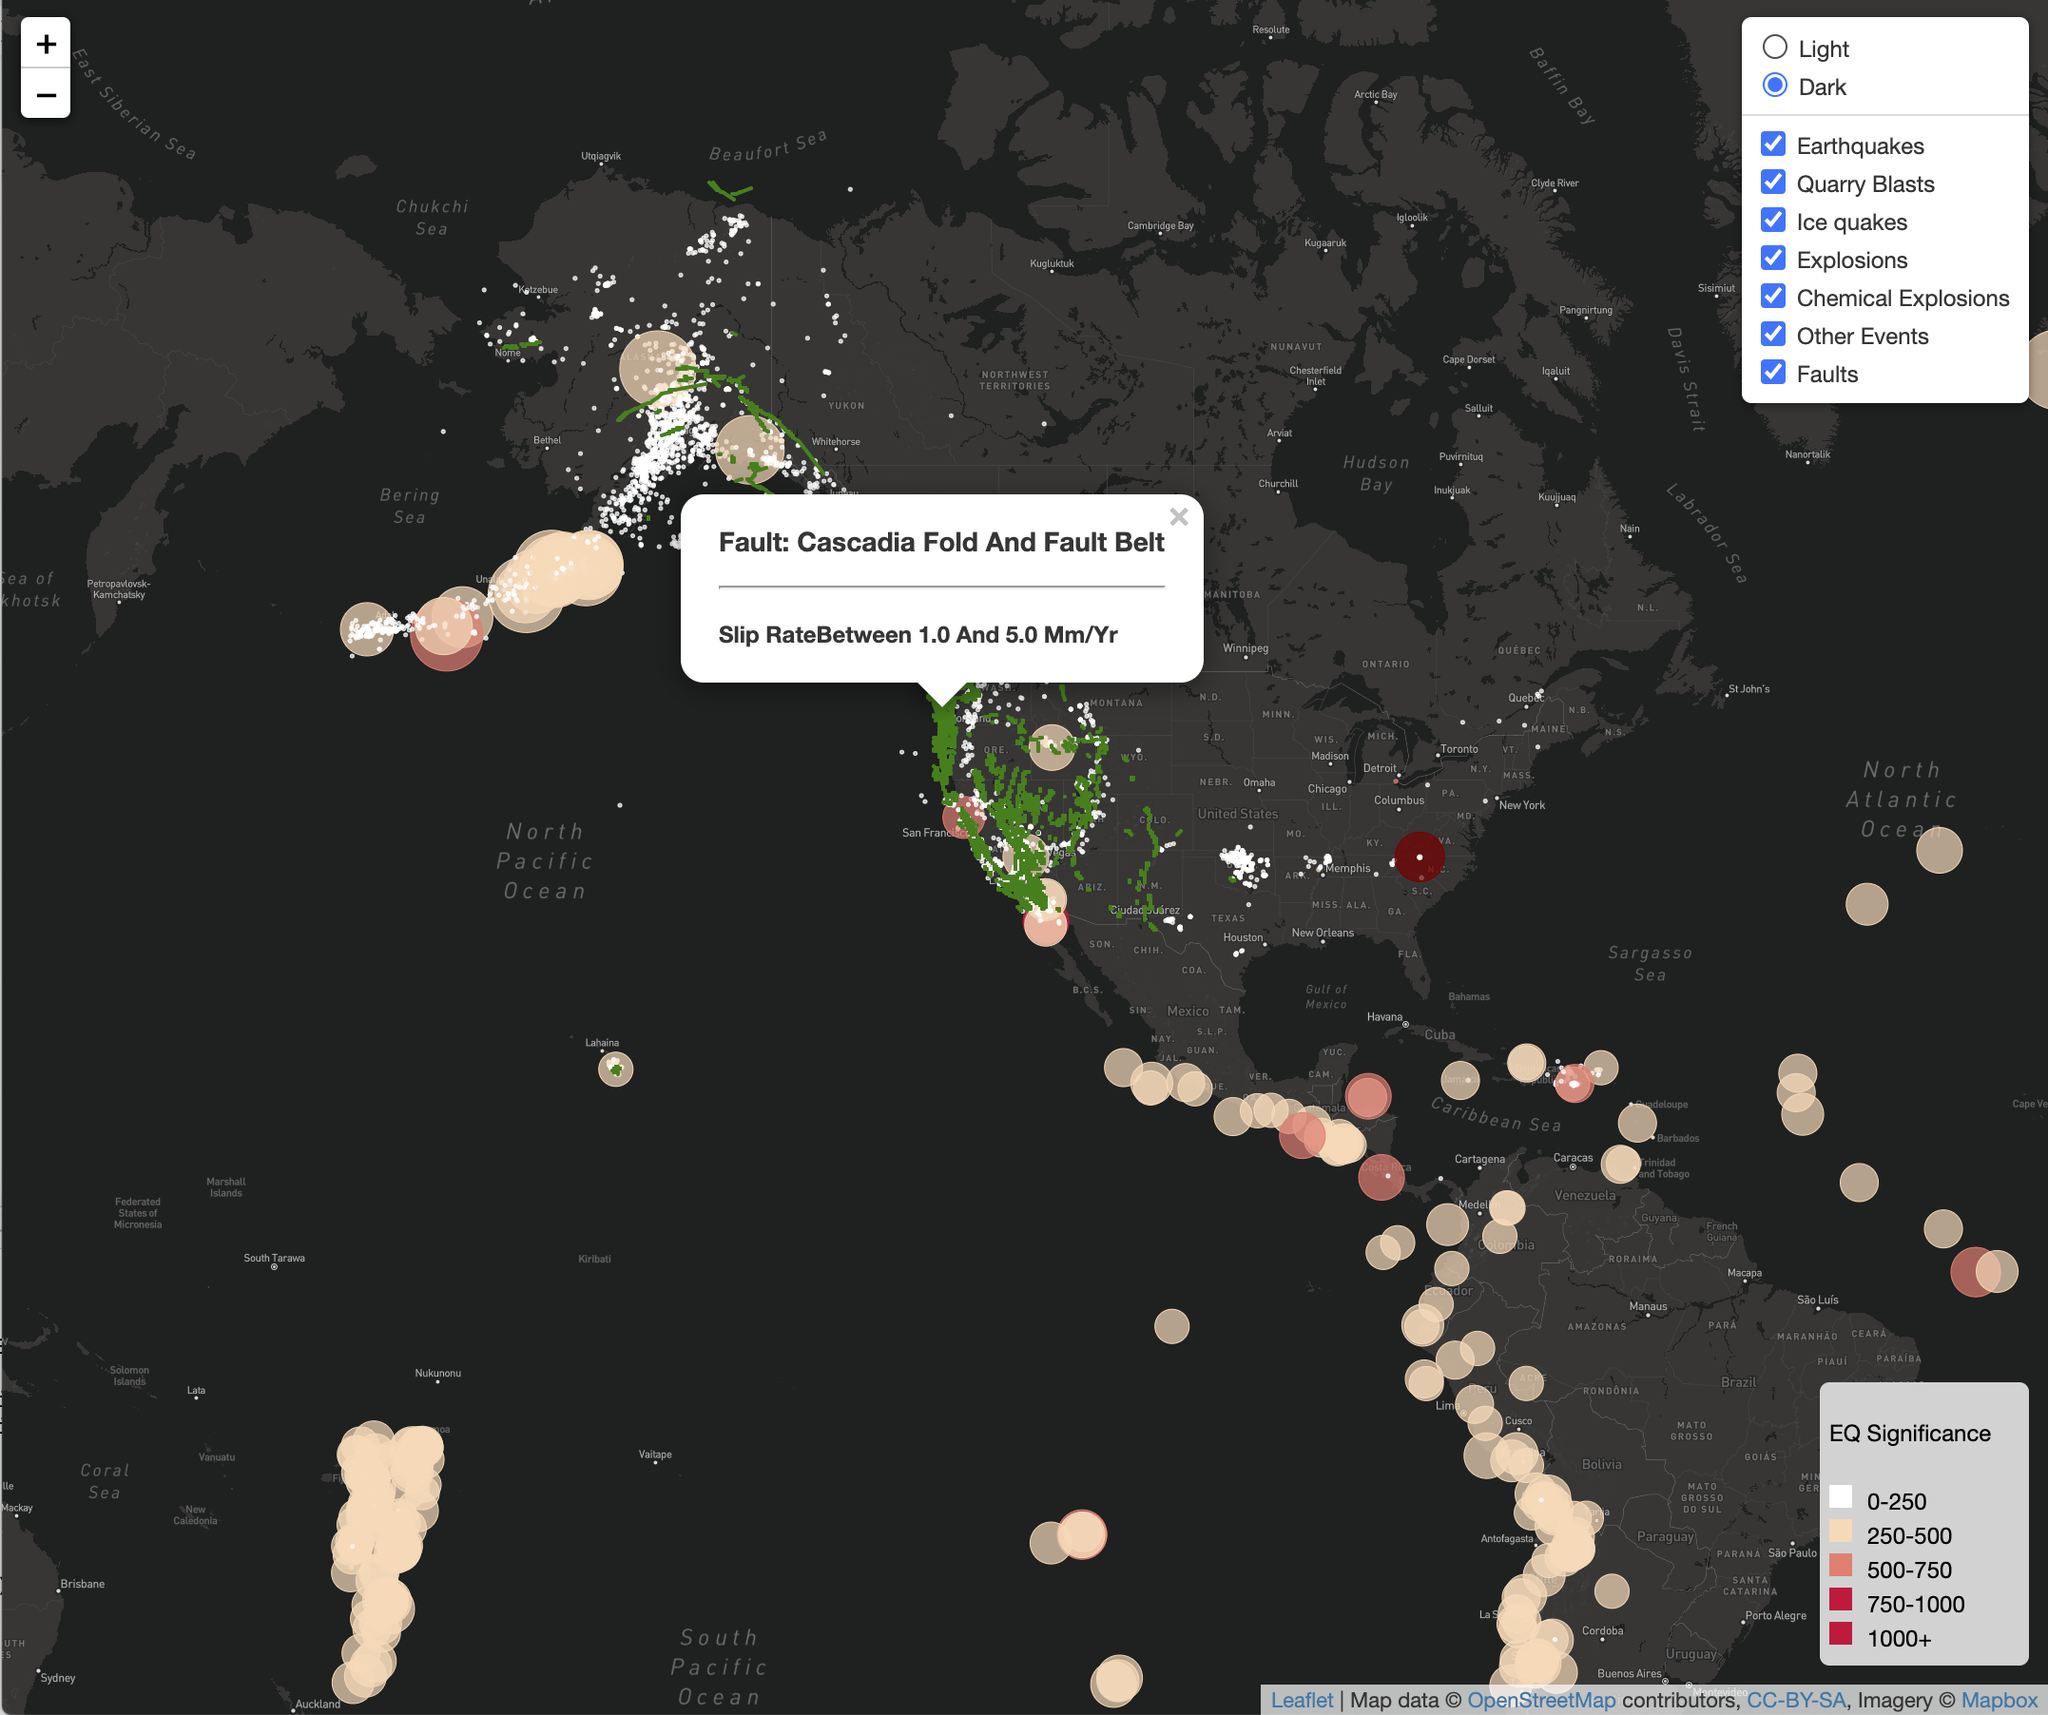
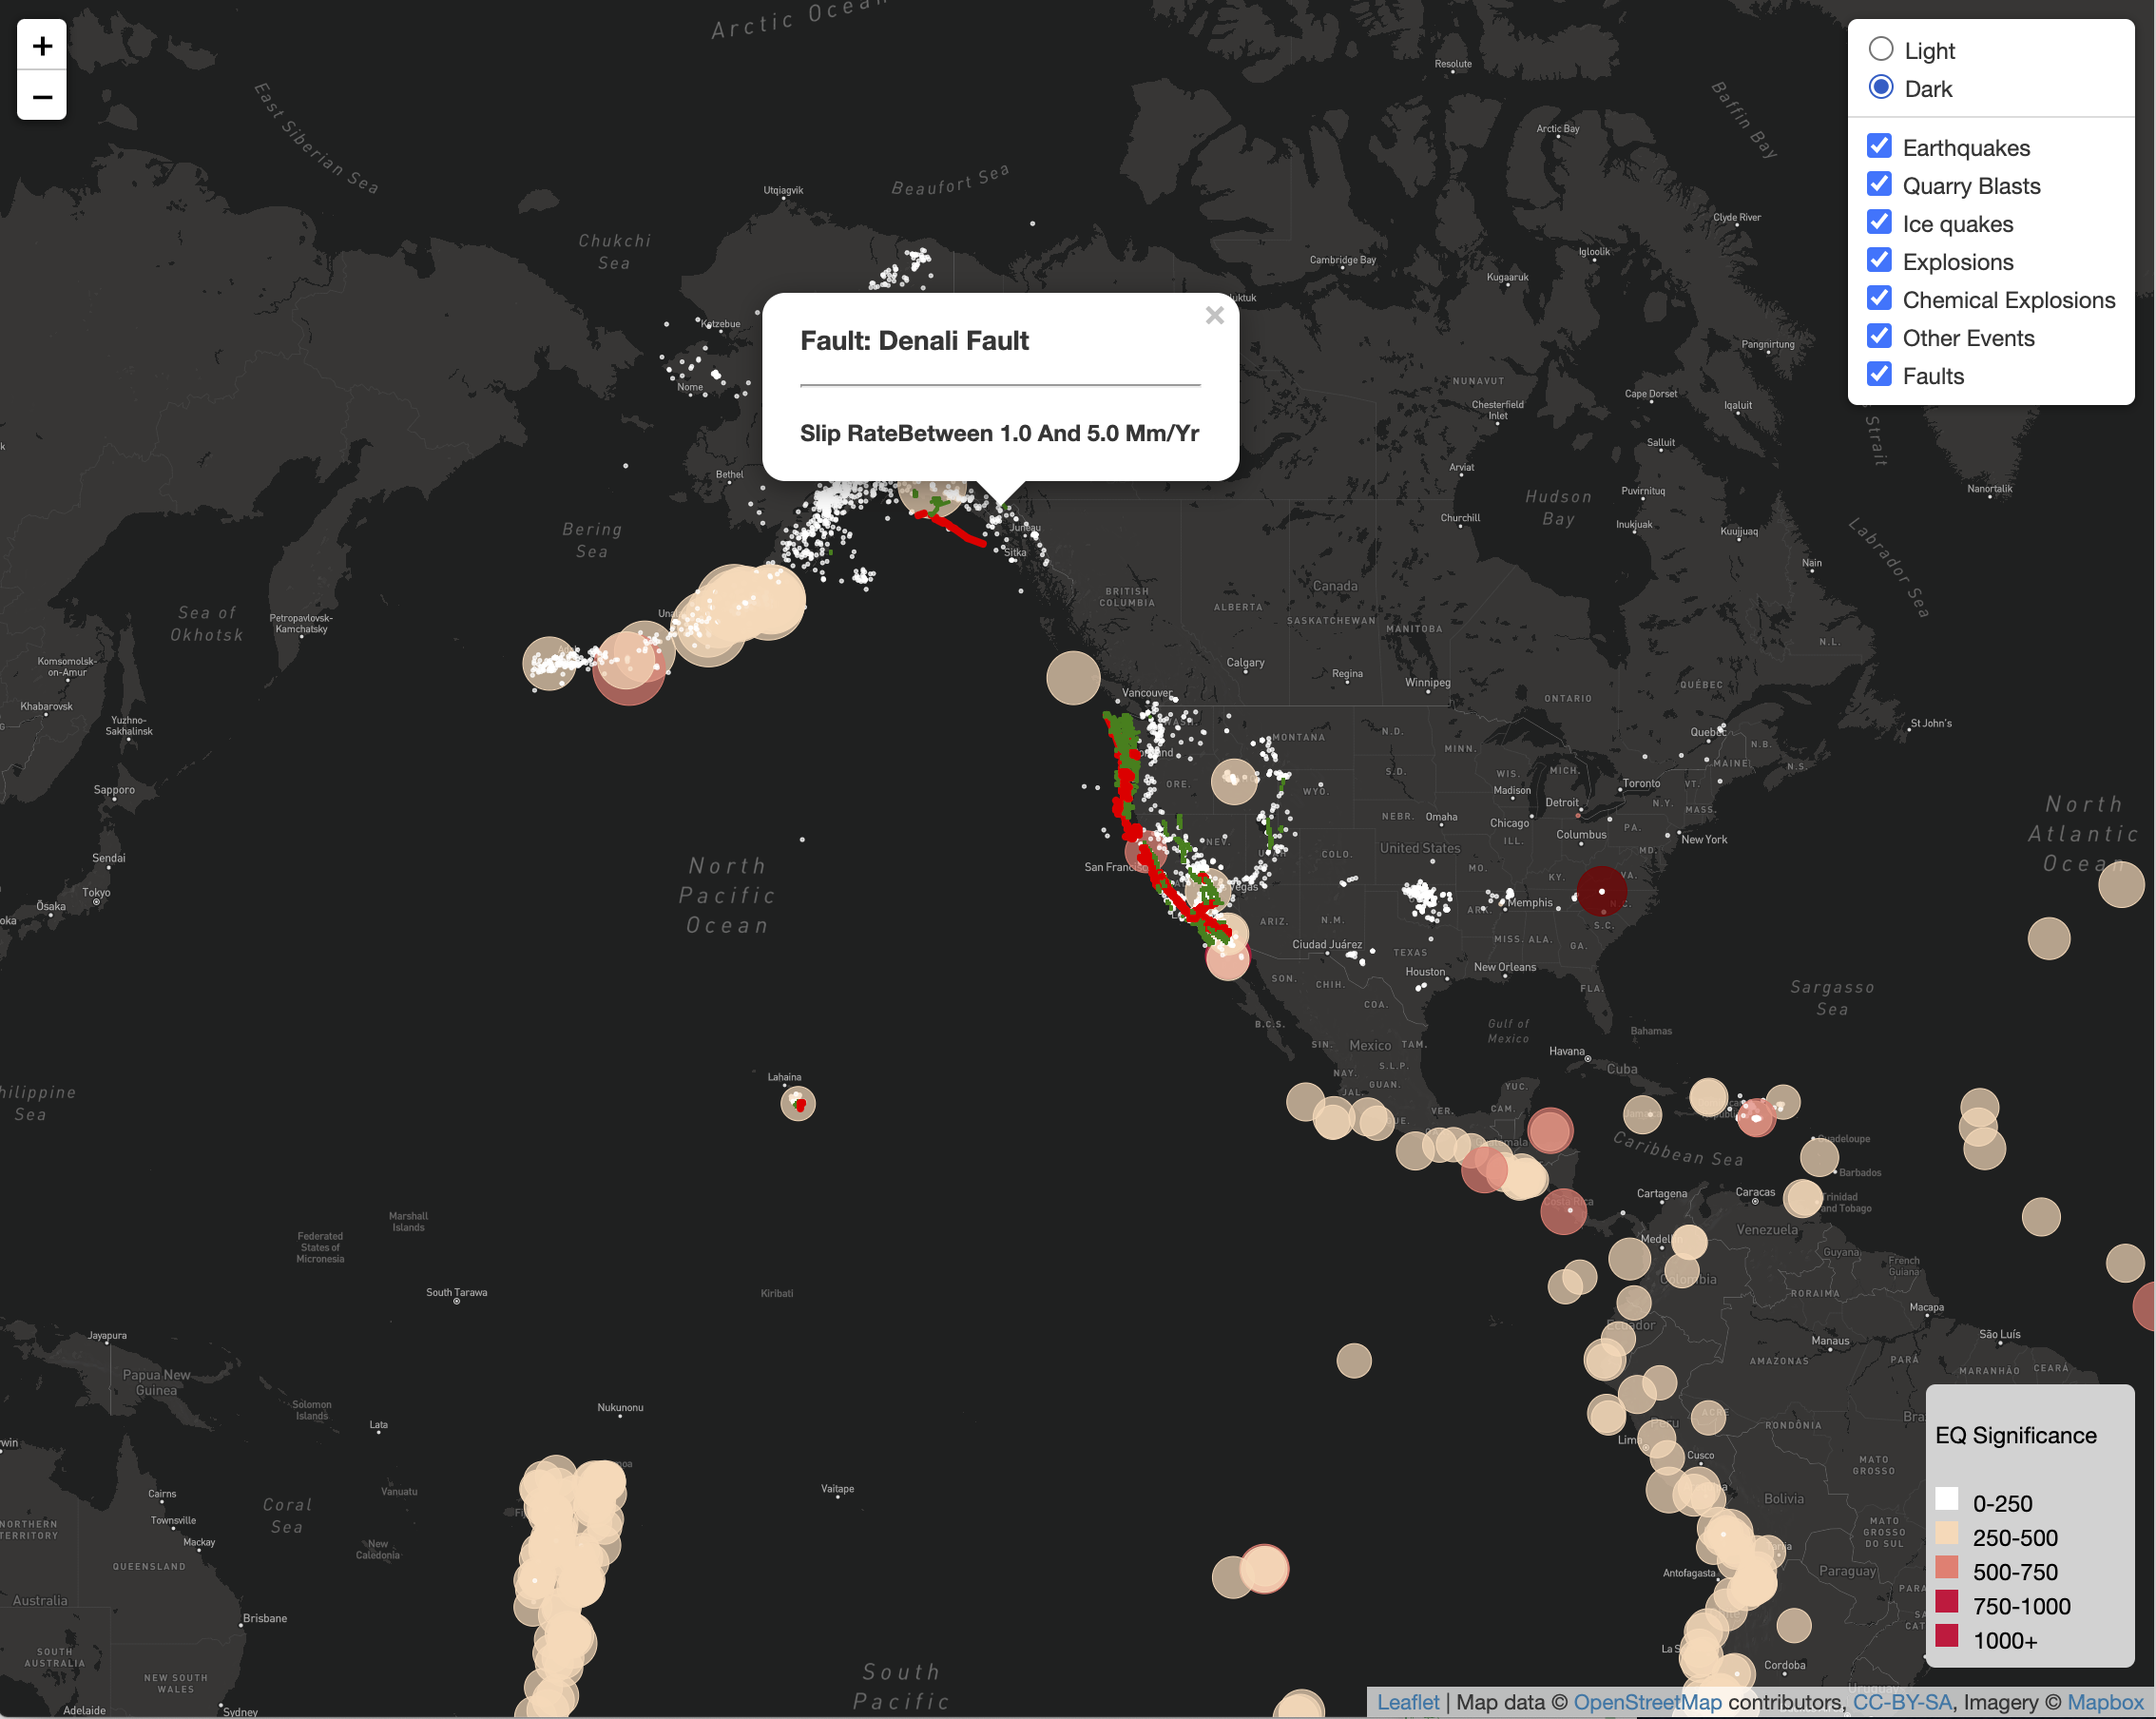
Format the faults to differ between slip rates 1 - 5 and over 5mm/year.

diff --git a/static/js/logic.js b/static/js/logic.js
@@ -165,62 +165,69 @@ const myStyle_1to5 = {
 
 
 
-const jsonData = "static/data/qfaults_latest_quaternary.geojson";
+// const jsonData = "static/data/qfaults_latest_quaternary.geojson";
+// // Grab data with d3
+// d3.json(jsonData).then(jsonData => {
+//   const all_features = jsonData.features;
+//   const features = all_features.filter( feature => feature.properties.slip_rate !== "Unspecified" && feature.properties.slip_rate !== null);
+//   const slip_over5 = features.filter(feature => feature.properties.slip_rate === "Greater than 5.0 mm/yr");
+//   const slip_1to5 = features.filter(feature => feature.properties.slip_rate === "Between 1.0 and 5.0 mm/yr");
+//   console.log(features);
+
+//   featureType = "faults";
+//   L.choropleth(jsonData, {
+//     // Define what  property in the features to use
+//     valueProperty: 'slip_rate', // which property in the features to use
+//     style: {
+//       color: 'green', // border color
+//       weight: 2
+//     },
+//     onEachFeature: function(feature, layer) {
+//       layer.bindPopup(`<h3>Fault: ${feature.properties.fault_name}</h3><hr>
+//         <h4>Slip Rate${feature.properties.slip_rate}</h4>`)
+//     }
+//   }).addTo(layers[featureType]);
+//  });
+
+function getStyle(slip_rate){
+  let weight;
+  switch(slip_rate){
+      case "Greater than 5.0 mm/yr":
+        weight = 4;
+        color = 'red';
+        break;
+      case "Between 1.0 and 5.0 mm/yr":
+        weight = 2;
+        color = 'green';
+  }
+  return {
+      "weight": weight,
+      "color": color
+  };
+}
+
+ const jsonData = "static/data/qfaults_latest_quaternary.geojson";
 // Grab data with d3
 d3.json(jsonData).then(jsonData => {
   const all_features = jsonData.features;
   const features = all_features.filter( feature => feature.properties.slip_rate !== "Unspecified" && feature.properties.slip_rate !== null);
-  const slip_over5 = features.filter(feature => feature.properties.slip_rate === "Greater than 5.0 mm/yr");
-  const slip_1to5 = features.filter(feature => feature.properties.slip_rate === "Between 1.0 and 5.0 mm/yr");
-  console.log(features);
+  const selected_slip_rates = features.filter(feature => feature.properties.slip_rate === "Greater than 5.0 mm/yr" || 
+      feature.properties.slip_rate === "Between 1.0 and 5.0 mm/yr");
+  // console.log(selected_slip_rates);
 
   featureType = "faults";
-  L.choropleth(jsonData, {
+  L.geoJson(selected_slip_rates, {
     // Define what  property in the features to use
     valueProperty: 'slip_rate', // which property in the features to use
-    scale: ['white', 'red'], // chroma.js scale - include as many as you like
-    steps: 5, // number of breaks or steps in range
-    mode: 'q', // q for quantile, e for equidistant, k for k-means
-    style: {
-      color: 'green', // border color
-      weight: 2,
-      fillOpacity: 0.8
+    style: function(feature) 
+    {
+      return getStyle(feature.properties.slip_rate);
     },
     onEachFeature: function(feature, layer) {
       layer.bindPopup(`<h3>Fault: ${feature.properties.fault_name}</h3><hr>
         <h4>Slip Rate${feature.properties.slip_rate}</h4>`)
     }
-  }).addTo(layers[featureType]); //addTo(myMap)
-  // let featureTypeFault;
-  
-  slip_over5.forEach((feature, i) => {
-
-    
-    // console.log(featureType);
-    
-    // const newFeatureFault = L.circle(location, {
-    //   weight: .5,
-    //   fillOpacity: 0.7,
-    //   radius: radius
-    // });
-
-    // newFeatureFault.addTo(layers[featureType]);
-
-    // const newFeatureCircle = L.circle(location, {
-    //   weight: .5,
-    //   color: getColor(sig),
-    //   fillOpacity: 0.7,
-    //   radius: radius
-    // });
-    
-    // newFeatureFault.bindPopup(`<h3>Fault: ${feature.properties.fault_name}</h3><hr>
-    // //   <h4>Slip Rate: ${feature.properties.slip_rate}</h4>`, {maxWidth: 560}) //
-    // .addTo(myMap)
-
-  })
+  }).addTo(layers[featureType]);
  });
 
-
-// .bindPopup(`<h3>Fault: ${feature.properties.fault_name}</h3><hr>
-//       <h4>Slip Rate: ${feature.properties.slip_rate}</h4>`, {maxWidth: 560})
       
